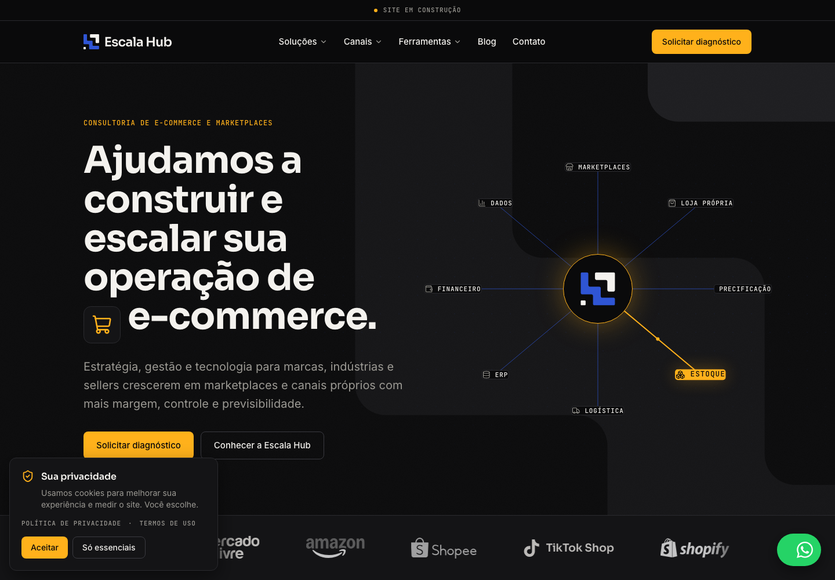
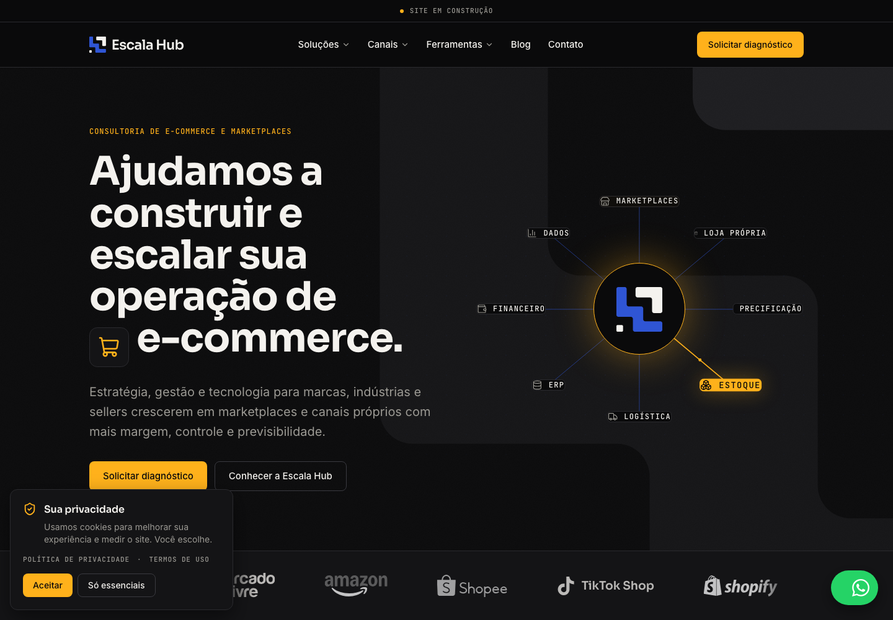
docs: correções pós-lançamento e nota sobre validação de layout

diff --git a/docs/15-auditoria-prototipo.md b/docs/15-auditoria-prototipo.md
@@ -34,3 +34,15 @@ Aprovado para portar. Layout, copy e tokens batem com os docs. Itens abaixo são
 
 ## Mapa de componentes (porte)
 Nav (mega menu) · HeroDiagram · LogoMarquee · OrigemTiles · PainSlider · Pillars · Method · ContentCards · BlogSoon · MetriHubSection (mock + marquee de alertas) · Partners · FinalCTA · Footer · CookieConsent · CalModal · WhatsAppFab · BuildBar.
+
+## Correções pós-lançamento (2026-09-14)
+Comparação com os prints do protótipo final (o zip exportado estava desatualizado):
+1. Barra do topo: fundo ink com ponto âmbar, texto curto, sem botão fechar.
+2. Hero: badges abaixo dos CTAs removidos.
+3. Footer: badges da coluna da marca removidos; "Contato" no lugar de "Calculadora de Preços"; ícones de WhatsApp e e-mail; "Feito em São Paulo" removido; grade de 5 colunas para o e-mail caber em uma linha.
+4. Marquee: logos maiores (30–42px) e opacidade 75%.
+5. Hero e slider: etiquetas 12px mono, mais padding e respiro.
+
+Defeitos meus, corrigidos: diagrama girava com etiquetas tortas; SVG e etiquetas escalavam em ritmos diferentes; e-mail quebrando no footer.
+
+**Nota de método:** screenshots por Chrome headless com `--virtual-time-budget` congelam transições CSS no meio e mentem em larguras estreitas. Validar layout pelo navegador real (medindo `scrollWidth` e `getBoundingClientRect`), não por screenshot headless.

diff --git a/docs/05-decisoes.md b/docs/05-decisoes.md
@@ -77,3 +77,5 @@ Formato: data · decisão · status (proposta / aprovada / revertida) · motivo.
 | 2026-09-14 | Barra do topo: fundo ink com ponto âmbar e "Site em construção", sem botão fechar | aprovada | Protótipo |
 | 2026-09-14 | Sem badges no hero nem na coluna da marca do footer; "Contato" no lugar de "Calculadora" na coluna Empresa; sem "Feito em São Paulo" | aprovada | Protótipo |
 | 2026-09-14 | Diagrama da hero é estático (sem rotação automática) | aprovada | Etiquetas saíam tortas; protótipo é estático |
+| 2026-09-14 | Etiquetas da hero e abas do slider em 12px mono com tracking 0.1em e mais padding; círculo central 148px | aprovada | Estavam menores que o protótipo |
+| 2026-09-14 | Diagrama da hero posicionado em porcentagem do viewBox 640x560, com aspect-ratio | correção | Antes o SVG escalava e as etiquetas ficavam em px fixos: as linhas paravam antes das etiquetas |
